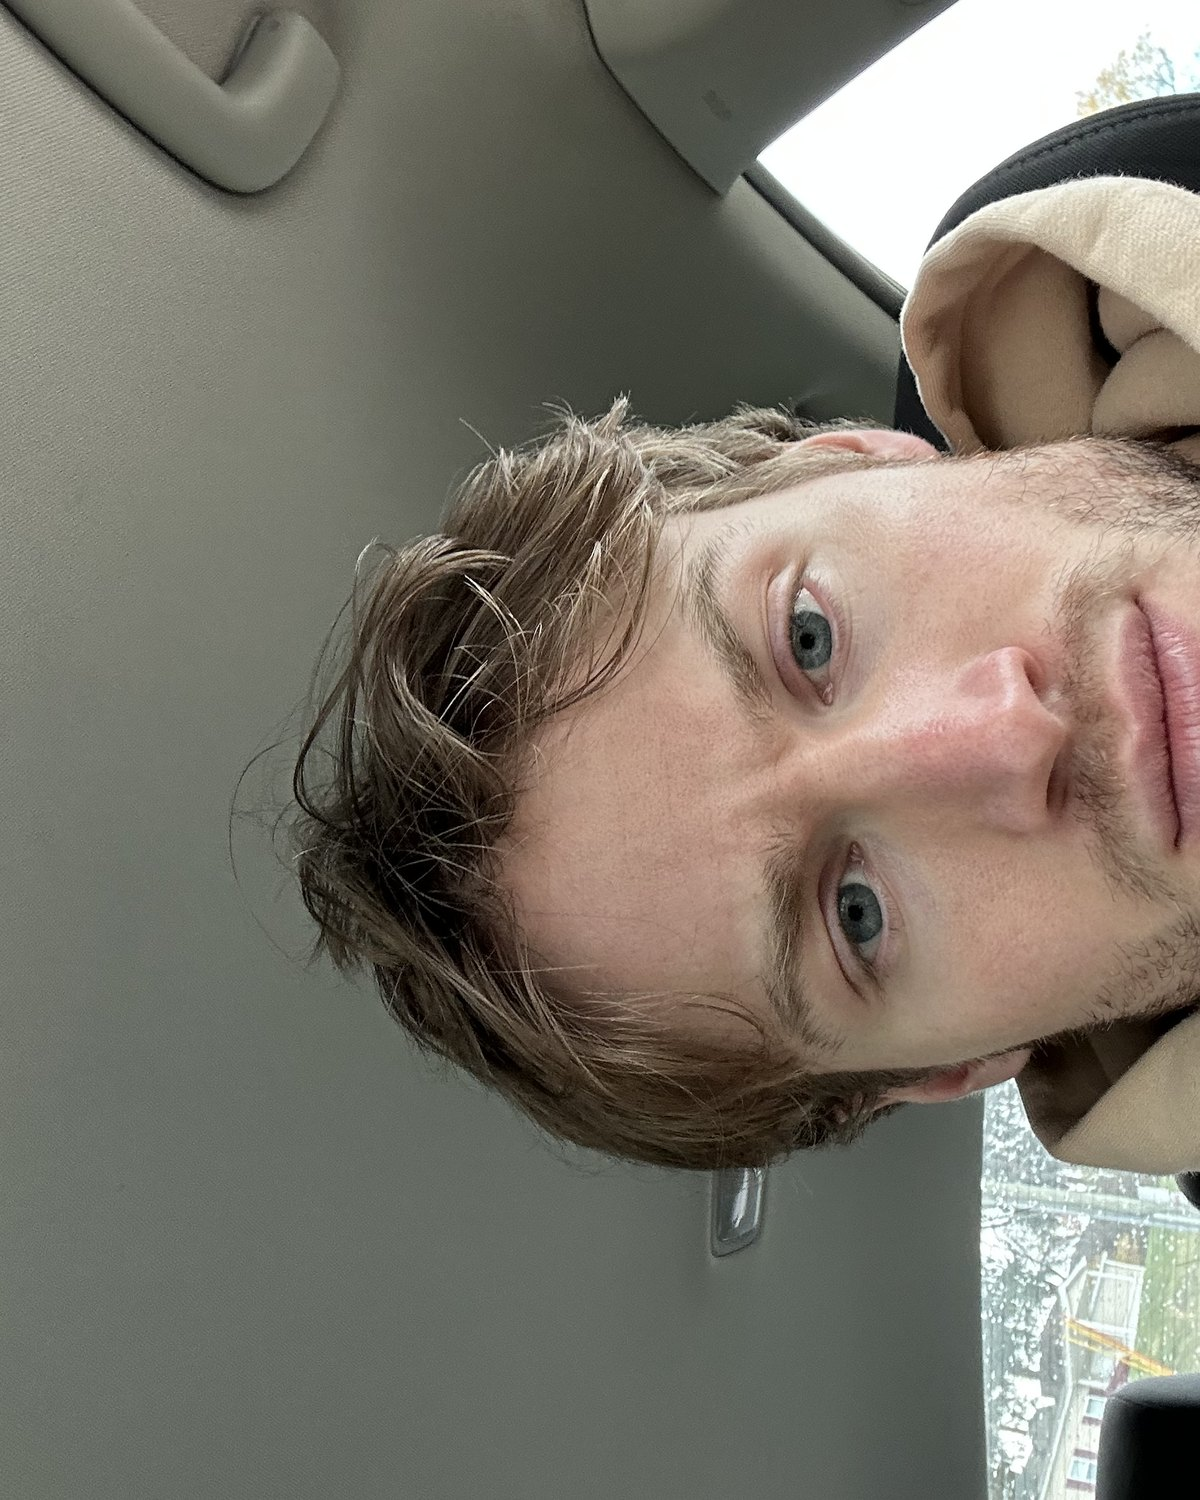
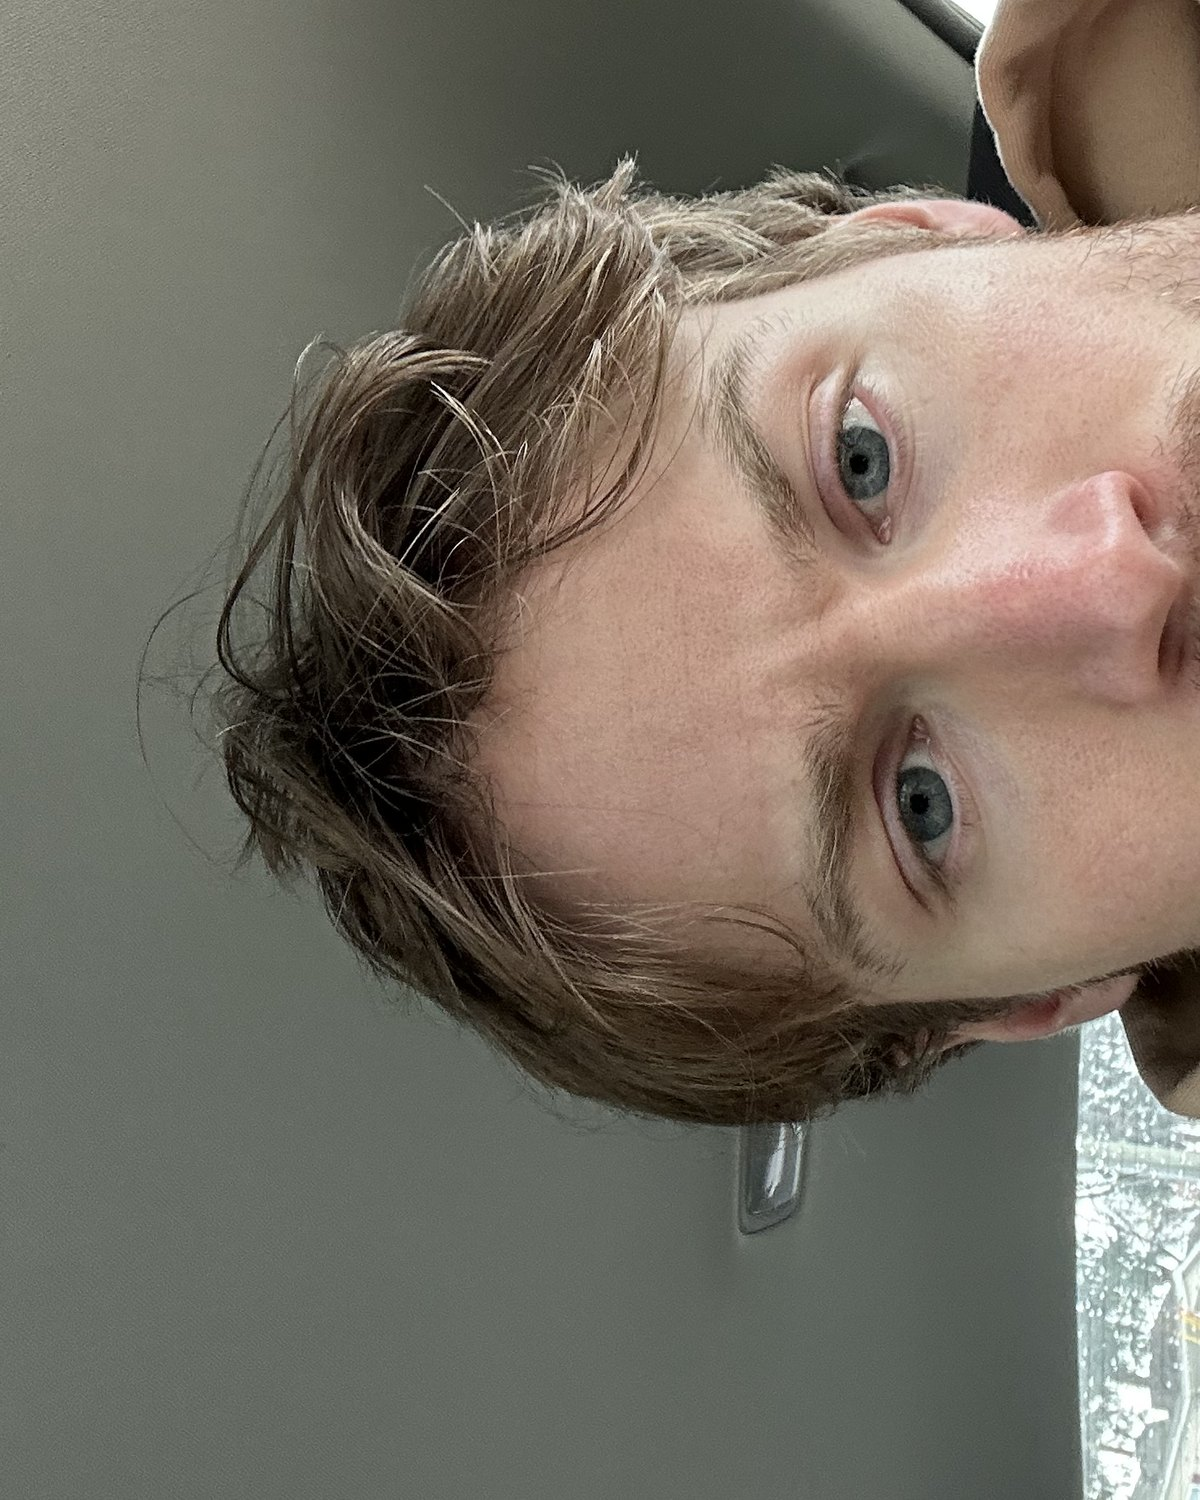
Reframe About portraits so the face sits fully in frame.

diff --git a/src/data/site.ts b/src/data/site.ts
@@ -145,10 +145,10 @@ export const about = {
   future: "I continue to expand my work into various ventures and have some awesome aspirations for future projects",
   place: "Pittsburgh Metro 📍",
   photos: [
-    { src: "/images/profile/about-1.jpg", alt: "Thomas Voelker in a navy suit in a church aisle" },
-    { src: "/images/profile/about-2.jpg", alt: "Thomas Voelker smiling outdoors in a tan suit" },
-    { src: "/images/profile/about-3.jpg", alt: "Thomas Voelker in a car, looking at the camera" },
-    { src: "/images/profile/about-4.jpg", alt: "Thomas Voelker behind the bar, throwing a peace sign" },
+    { src: "/images/profile/about-1.jpg?v=2", alt: "Thomas Voelker in a navy suit in a church aisle" },
+    { src: "/images/profile/about-2.jpg?v=2", alt: "Thomas Voelker smiling outdoors in a tan suit" },
+    { src: "/images/profile/about-3.jpg?v=2", alt: "Thomas Voelker in a car, looking at the camera" },
+    { src: "/images/profile/about-4.jpg?v=2", alt: "Thomas Voelker behind the bar, throwing a peace sign" },
   ],
 } as const;
 

diff --git a/src/styles.css b/src/styles.css
@@ -261,7 +261,7 @@ html.light .app-lock img {
   width: 100%;
   height: 100%;
   object-fit: cover;
-  object-position: center 12%;
+  object-position: center 18%;
   opacity: 0;
   transition: opacity 800ms var(--ease-smooth-out);
 }
